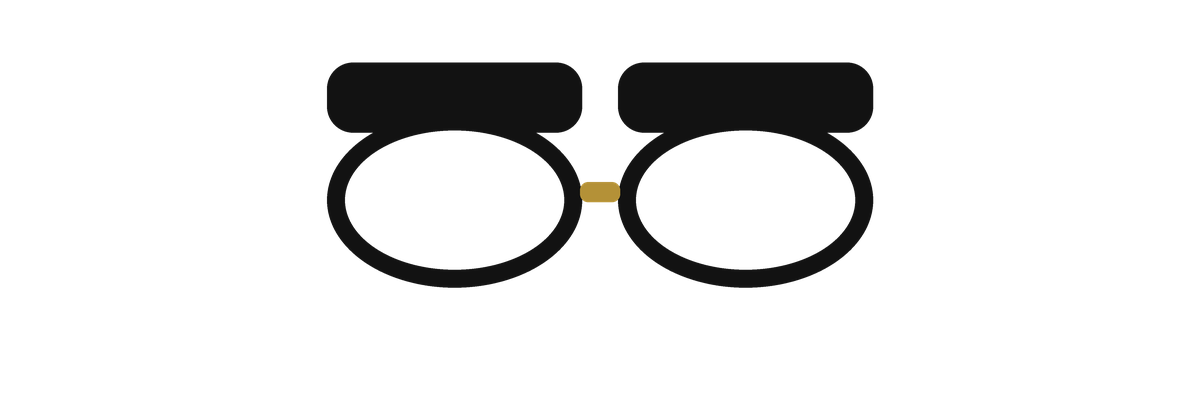
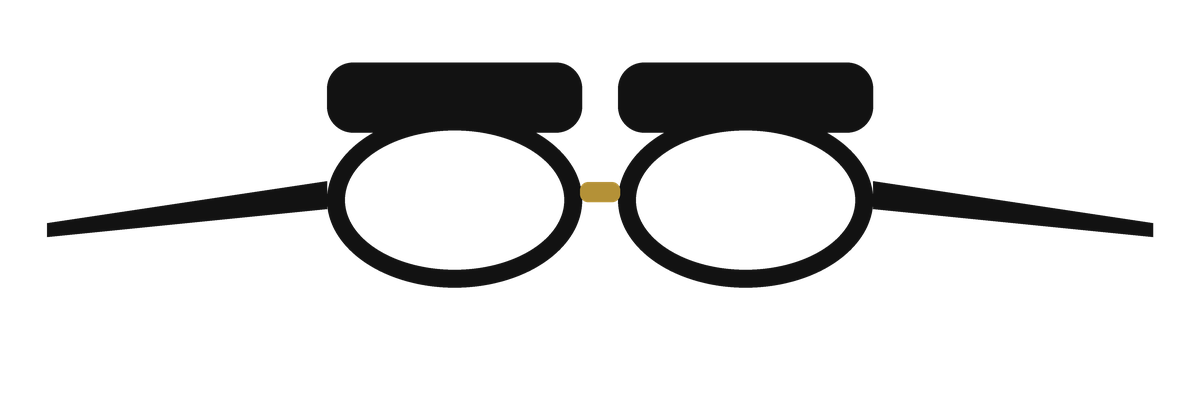
Restore arms in PNG, fix thumbnails: cover + light background

Changed region(s): [[0.7092, 0.45, 0.9867, 0.6], [0.0308, 0.45, 0.2775, 0.6]]

diff --git a/static/css/style.css b/static/css/style.css
@@ -221,7 +221,7 @@ main {
     width: 60px;
     height: 36px;
     border-radius: 6px;
-    background: #252540;
+    background: #e8e8f0;
     display: flex;
     align-items: center;
     justify-content: center;
@@ -232,7 +232,8 @@ main {
 .product-thumb img {
     width: 100%;
     height: 100%;
-    object-fit: contain;
+    object-fit: cover;
+    object-position: center;
 }
 
 .product-info {
